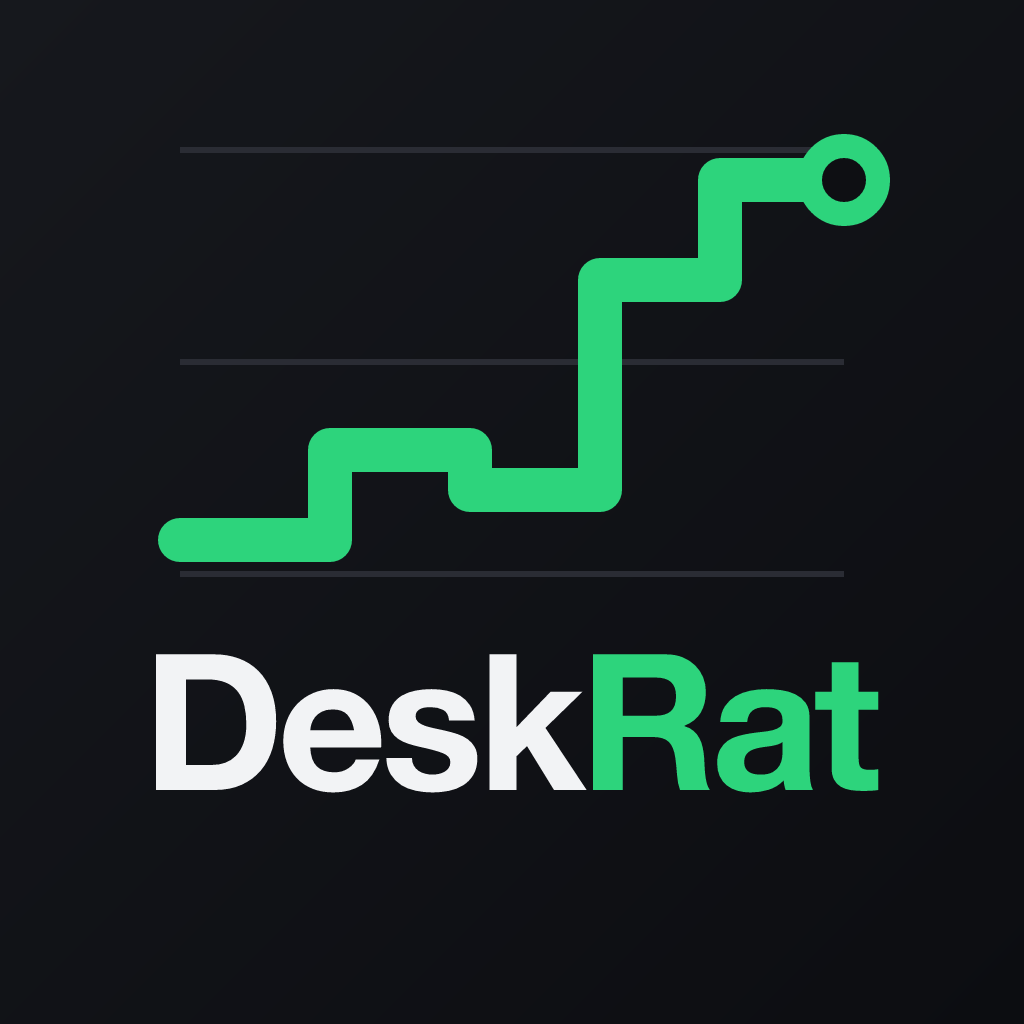
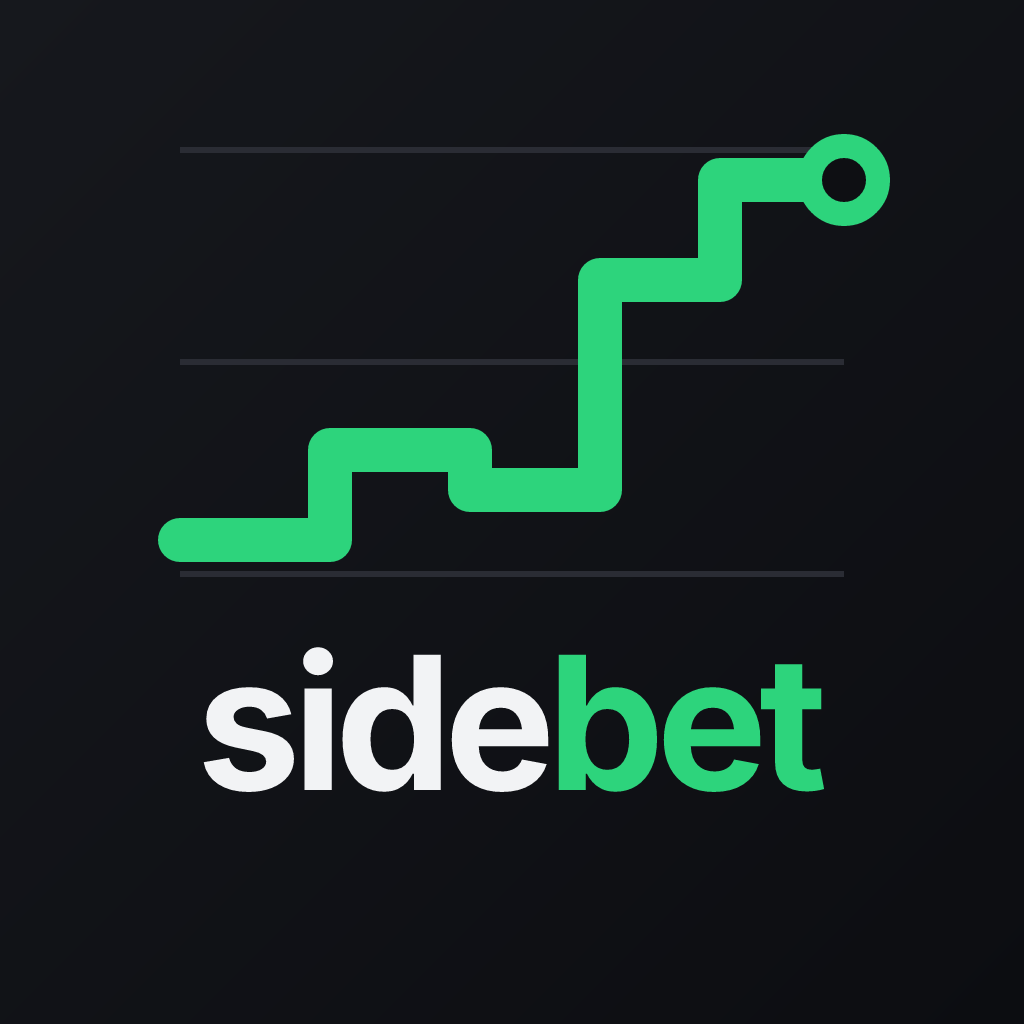
Rename to Sidebet; add pitch and a keep-alive script
- New name and logo, tagline and elevator pitch in README/PITCH
- deploy/run-forever.sh: caffeinate plus auto-restart without a login item

Changed region(s): [[0.125, 0.625, 0.875, 0.7812]]

diff --git a/src/nagger.ts b/src/nagger.ts
@@ -25,7 +25,7 @@ const days = (d: Debt) => Math.max(1, Math.ceil((Date.now() - d.created_at) / (2
 export function howToPay(d: Debt, m: Market): string {
   const who = displayName(d.space_id, d.creditor);
   const p = getProfile(d.creditor);
-  const note = encodeURIComponent(`Group Markets #${m.id}`);
+  const note = encodeURIComponent(`Sidebet #${m.id}`);
   const lines = [`Apple Cash: open your chat with ${who}, tap +, then Apple Cash, then ${usd(d.amount)}.`];
   if (p.venmo) lines.push(`Venmo: https://venmo.com/${p.venmo}?txn=pay&amount=${plainAmount(d.amount)}&note=${note}`);
   if (p.cashapp) lines.push(`Cash App: https://cash.app/$${p.cashapp}/${plainAmount(d.amount)}`);

diff --git a/src/commands.ts b/src/commands.ts
@@ -75,7 +75,7 @@ export const isCommand = (text: string) => PREFIXES.some((p) => text.trimStart()
 /** What a bare "!yes" bets. */
 export const DEFAULT_BET_CENTS = Math.round(Number(process.env.DEFAULT_BET ?? (PLAY ? 100 : 5)) * 100);
 
-const HELP = `Group Markets · ${PLAY ? "play money, 1,000 coins each to start" : "real money, settled between you"}
+const HELP = `Sidebet · ${PLAY ? "play money, 1,000 coins each to start" : "real money, settled between you"}
 
 !new <question>      open a market (odds from chat history + Kalshi)
 !yes 1 ${HINT} · !no 1 ${HINT} bet ${usd(HINT * 100)} on #1${PLAY ? "" : ` (max ${usd(MAX_BET_CENTS)})`}

diff --git a/src/index.ts b/src/index.ts
@@ -196,7 +196,7 @@ if (!discover) {
   startNagger({ dm: sendDm, announce: (spaceId, text) => deliver(spaceId, { text }) });
 }
 console.log(
-  `🎲 group-markets running · bet detection ${detectionEnabled ? "on" : "off"} · ` +
+  `🎲 sidebet running · bet detection ${detectionEnabled ? "on" : "off"} · ` +
     (discover ? "DISCOVER mode (read-only)" : allowed.size ? `chats: ${[...allowed].join(", ")}` : "ALL chats"),
 );
 

diff --git a/PITCH.md b/PITCH.md
@@ -1,8 +1,17 @@
-# Group Markets: pitch and demo notes
+# Sidebet: pitch and demo notes
+
+## Tagline
+
+**Kalshi for your group chat.**
+(alternates: *Put your money where your group chat is.* · *Every hot take is a market.*)
+
+## Elevator pitch
+
+Sidebet is an AI bookie that lives in your iMessage group chat. When a friend says "Ajay is never learning to swim," Sidebet turns it into a yes/no market, reads the chat's history to set the opening odds with receipts ("Four months of 'gonna learn,' zero pool time"), and tracks every bet on a Kalshi-style chart. Public events mirror real Kalshi odds and settle automatically, and when someone posts evidence, Sidebet calls out whose bet just got better or worse.
 
 ## One line
 
-Friends already argue about who'll be late, whether the camping trip happens, and who wins Sunday. Group Markets turns those arguments into prediction markets inside the iMessage group chat, with odds set from the chat's own history and real-world bets mirrored live from Kalshi.
+Friends already argue about who'll be late, whether the camping trip happens, and who wins Sunday. Sidebet turns those arguments into prediction markets inside the iMessage group chat, with odds set from the chat's own history and real-world bets mirrored live from Kalshi.
 
 ## Lead with the hook, not the command list
 
@@ -53,7 +62,7 @@ Bot:   Opening odds 15%. Planned for August, stalled without a date, and the sem
 
 Prabhath's blendit is a group trip planner: an Expo / React Native app on Supabase. Friends paste TikToks and Reels into a trip and vote each clip up or down. A worker downloads the video, samples frames, and has Claude pull out every real place shown; clips the group voted up become the itinerary.
 
-| | Group Markets | blendit |
+| | Sidebet | blendit |
 |---|---|---|
 | Problem | Settling group arguments and predictions | Agreeing on what to do on a group trip |
 | Where it lives | Inside an existing iMessage group | Standalone mobile app (sign-up, invites by email) |
@@ -66,6 +75,6 @@ Prabhath's blendit is a group trip planner: an Expo / React Native app on Supaba
 
 **Where blendit is stronger:** a polished, designed mobile UI; real multi-user auth and permissions; a robust job queue; a harder AI task (video understanding).
 
-**Where Group Markets is stronger:** zero onboarding, a live "wow" moment in a chat, real-world data that settles itself, and AI output the group can argue with.
+**Where Sidebet is stronger:** zero onboarding, a live "wow" moment in a chat, real-world data that settles itself, and AI output the group can argue with.
 
 **They fit together.** Both turn messy group opinions into a decision. A natural bridge is markets on blendit trips ("Will we actually book Miami?" or "Will Ajay make the 7am hike?"), opened from the trip's group chat with the itinerary as context for the odds.

diff --git a/README.md b/README.md
@@ -1,4 +1,6 @@
-# 🎲 Group Markets
+# 🎲 Sidebet
+
+*Kalshi for your group chat.*
 
 A prediction-market bot for iMessage group chats, built on [Spectrum](https://photon.codes/docs/spectrum-ts/providers/imessage). Friends open yes/no markets on anything ("Will Jake be late?"), bet against each other with play money (or real dollars with `MONEY_MODE=real`), and get a chart of the odds and the pot. In real-money mode the bot never holds money: when a market settles it works out who pays whom, DMs the losers how to pay (Apple Cash, or one-tap Venmo / Cash App links), and keeps reminding them until the winner confirms. Public events can be **mirrored from Kalshi or Polymarket**, so the group sees real-world odds and the market **settles automatically** when the real one does.
 
